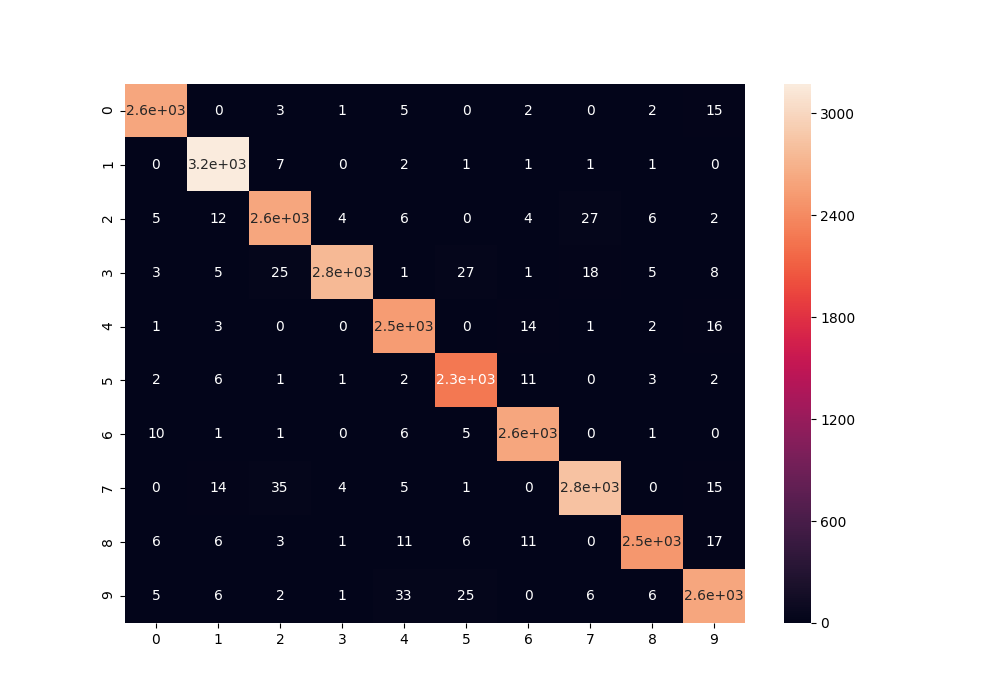
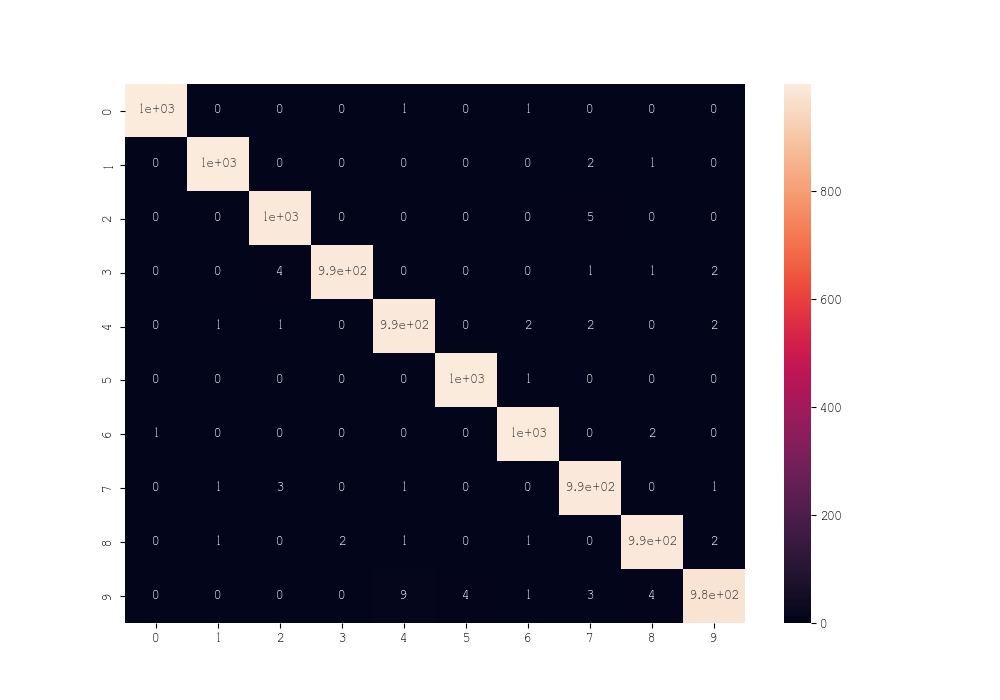
err corr

diff --git a/main.py b/main.py
@@ -176,11 +176,11 @@ if args.train:
 else:
   if args.val == 1:
     print("========== W/O Decision-making  ===============")
-    test(0, 0)
+    test(0, 0, val_loader)
     print("========== With Decision-making ===============")
     decision(val_loader)
   else:
     print("========== W/O Decision-making  ===============")
-    test(0, 0)
+    test(0, 0, test_loader)
     print("========== With Decision-making ===============")
     decision(test_loader)
